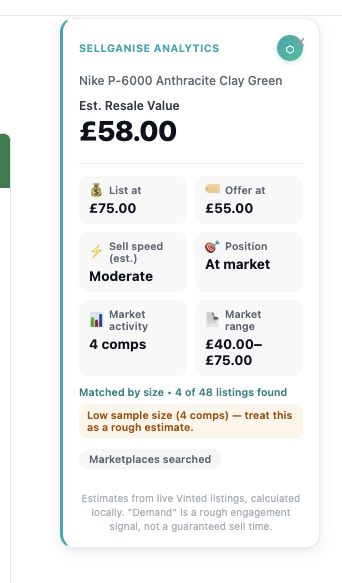
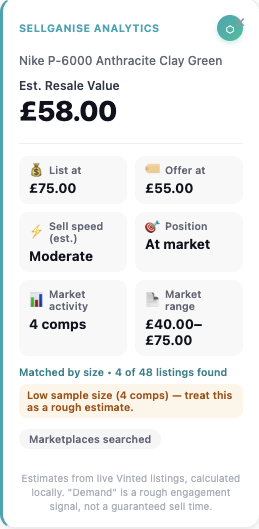
Simplify analytics section to single card screenshot
Replace the two-image layout with just the clean analytics card
screenshot, centred with a subtle amber glow behind it.

diff --git a/app/page.tsx b/app/page.tsx
@@ -957,7 +957,7 @@ function AnalyticsSection() {
   return (
     <section id="analytics" className="px-6 py-16 md:py-28 border-t border-line overflow-hidden">
       <div className="mx-auto max-w-6xl">
-        <div className="grid md:grid-cols-[1fr_1.15fr] gap-14 md:gap-20 items-center">
+        <div className="grid md:grid-cols-2 gap-14 md:gap-20 items-center">
 
           {/* ── left: description ── */}
           <div>
@@ -998,42 +998,20 @@ function AnalyticsSection() {
             </div>
           </div>
 
-          {/* ── right: screenshots ── */}
+          {/* ── right: screenshot ── */}
           <Reveal>
-            <div className="relative">
-              {/* unified frame */}
-              <div className="rounded-2xl border border-line bg-ink-soft/30 p-3 shadow-2xl shadow-black/70">
-                <div className="flex gap-2.5 items-start">
+            <div className="relative flex justify-center">
+              {/* ambient glow behind card */}
+              <div className="absolute inset-0 bg-amber/[0.07] blur-3xl pointer-events-none rounded-full scale-75" />
 
-                  {/* Vinted listing — wider */}
-                  <div className="flex-[1.65] rounded-xl overflow-hidden border border-line/50 shadow-lg shadow-black/50 min-w-0">
-                    <img
-                      src="/analytics-vinted.png"
-                      alt="Vinted listing page with Sellganise Analytics extension active"
-                      className="w-full block object-cover"
-                    />
-                  </div>
-
-                  {/* Analytics card — narrower, taller */}
-                  <div className="flex-1 rounded-xl overflow-hidden border border-amber/25 shadow-xl shadow-black/60 ring-1 ring-amber/10 min-w-0">
-                    <img
-                      src="/analytics-card.png"
-                      alt="Sellganise Analytics card showing estimated resale value, pricing suggestions and sell speed"
-                      className="w-full block"
-                    />
-                  </div>
-
-                </div>
-
-                {/* caption bar */}
-                <div className="mt-2.5 px-1 flex items-center gap-2">
-                  <span className="w-1.5 h-1.5 rounded-full bg-moss shrink-0" style={{ animation: "blink 1.6s infinite" }} />
-                  <span className="text-[11px] text-paper-faint font-mono">Live on every Vinted UK listing</span>
-                </div>
+              {/* card screenshot */}
+              <div className="relative w-full max-w-[340px] rounded-2xl overflow-hidden border border-line/60 shadow-2xl shadow-black/70 ring-1 ring-white/5">
+                <img
+                  src="/analytics-card.png"
+                  alt="Sellganise Analytics extension card — estimated resale value, pricing suggestions and sell speed on a Vinted listing"
+                  className="w-full block"
+                />
               </div>
-
-              {/* ambient glow */}
-              <div className="absolute -bottom-6 left-1/2 -translate-x-1/2 w-2/3 h-16 bg-amber/[0.08] blur-3xl pointer-events-none" />
             </div>
           </Reveal>
 
